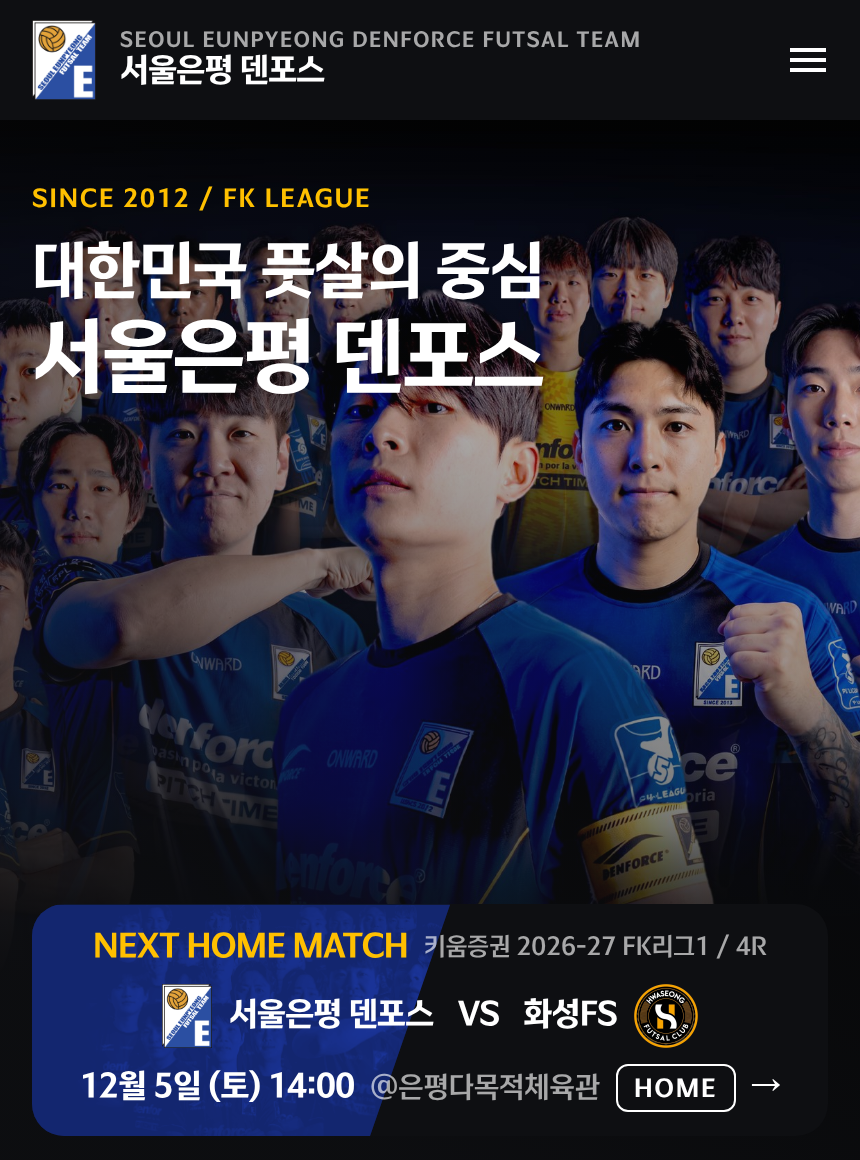
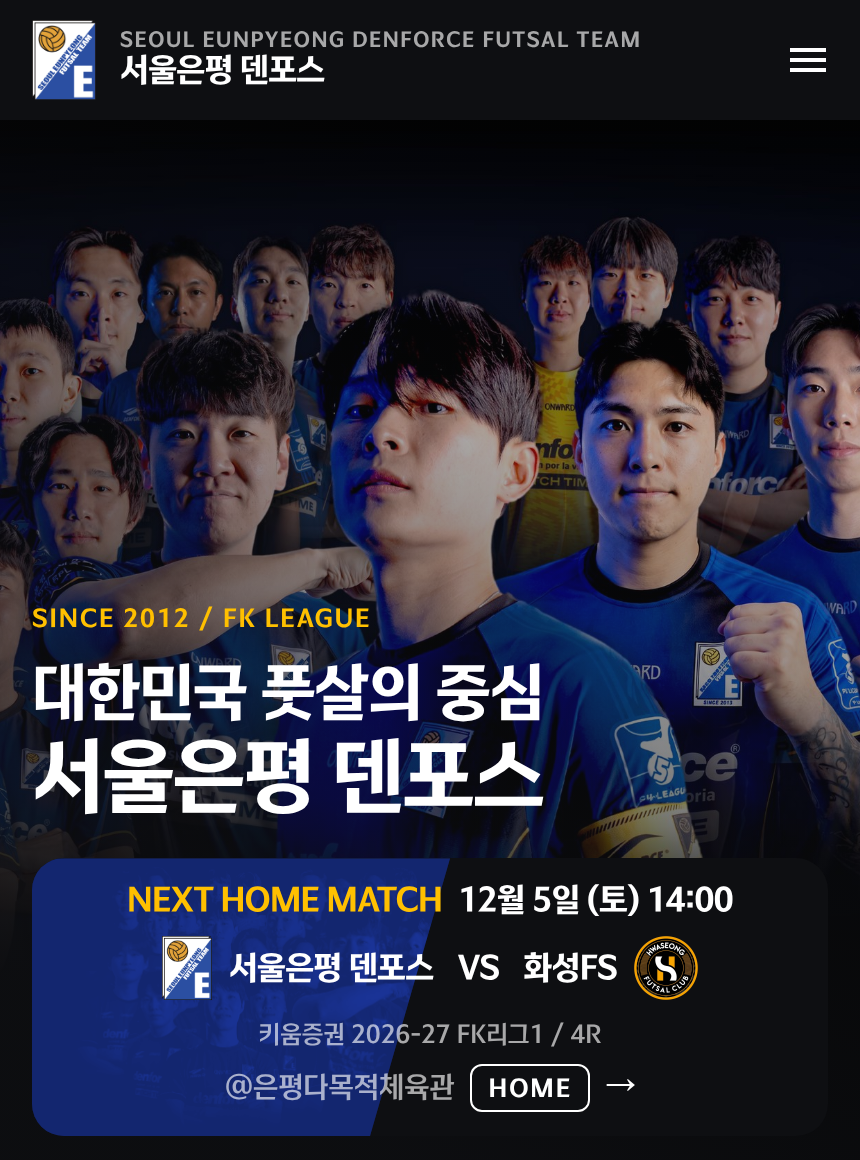
휴대폰 다음 홈경기 띠 줄 규칙(KFA고딕 기준): 줄1 라벨 + 날짜, 줄3 대회 + 장소 — 390 139 / 문구 위 302 (D-088, I-062)
Claude-Session: https://claude.ai/code/session_015na33bHmUEDGFhNLp3LnQp

Changed region(s): [[0.0302, 0.5276, 0.907, 0.9621], [0.0302, 0.1552, 0.6349, 0.3414]]

diff --git a/sites/eunpyeong-denforce/src/components/home/NextMatchHero.tsx b/sites/eunpyeong-denforce/src/components/home/NextMatchHero.tsx
@@ -84,7 +84,7 @@ function WideCard({ match, ourName, textured, style }: Props) {
 
 /**
  * 휴대폰 작은 띠 A 가운데 3줄 (D-088, 피그마 274:26717 / 274:26795 / 274:26873 / 274:26951) — 폭 화면 - 32.
- * [NEXT HOME MATCH + 대회] / [엠블럼 32 + 우리 이름, VS, 상대 이름 + 엠블럼] / [날짜 + @장소 + HOME + →].
+ * [NEXT HOME MATCH + 날짜] / [엠블럼 32 + 우리 이름, VS, 상대 이름 + 엠블럼] / [대회 + (@장소 + HOME + →)] — 줄 규칙은 KFA고딕 실측 기준(I-062, 디자인 f46f3d6).
  * 카드 전체가 /match/schedule 링크 하나. 읽기 프로그램에는 대진, 날짜, 장소를 담은 이름을 준다(→ 는 숨김).
  */
 function PhoneStrip({ match, ourName, textured, style }: Props) {
@@ -103,7 +103,9 @@ function PhoneStrip({ match, ourName, textured, style }: Props) {
       <Link href="/match/schedule" className={`${styles.card} ${styles.strip} ${textured ? styles.textured : ""}`} style={style} aria-label={name}>
         <span className={styles.stripRow}>
           <span className={styles.label}>NEXT HOME MATCH</span>
-          <CompetitionTag text={matchLabel(match)} surface="dark" />
+          <span className={styles.stripDate}>
+            {date} {time}
+          </span>
         </span>
         <span className={styles.stripTeams}>
           <span className={styles.stripTeam}>
@@ -117,9 +119,7 @@ function PhoneStrip({ match, ourName, textured, style }: Props) {
           </span>
         </span>
         <span className={styles.stripRow}>
-          <span className={styles.stripDate}>
-            {date} {time}
-          </span>
+          <CompetitionTag text={matchLabel(match)} surface="dark" />
           <span className={styles.venue}>
             {match.venue && <>@{match.venue}</>}
             <HomeAwayBadge isHome={match.isHome} surface="dark" />

diff --git a/sites/eunpyeong-denforce/src/components/home/NextMatchHero.module.css b/sites/eunpyeong-denforce/src/components/home/NextMatchHero.module.css
@@ -275,7 +275,7 @@
     text-decoration: none;
   }
 
-  /* 줄 1(라벨 + 대회), 줄 3(날짜 + 장소 덩어리) — 좁으면 덩어리째 다음 줄로 */
+  /* 줄 1(라벨 + 날짜), 줄 3(대회 + 장소 덩어리) — 좁으면 덩어리째 다음 줄로, 사이 space/2xs (I-062, 디자인 f46f3d6) */
   .stripRow {
     position: relative;
     display: flex;

diff --git a/sites/eunpyeong-denforce/docs/DECISION_LOG.md b/sites/eunpyeong-denforce/docs/DECISION_LOG.md
@@ -31,9 +31,9 @@
 
 ## D-088 | 2026-11-14 | 휴대폰 다음 홈경기 = 작은 띠 A 가운데 3줄, 카드 전체가 경기일정 링크, 버튼 없음
 - **상태**: 채택, 기능 브랜치(배포는 총괄) (소유자 "카드가 차지하는 면적이 너무 커서", 띠 A 선택 — 총괄 창에서 승인. 디자인 f945746, 섹션 274:26714, 프레임 360 274:26717 / 390 274:26795 / 430 274:26873 / 390 긴 이름 274:26951)
-- **결정**: 720 이하만. 721 이상(태블릿 456, PC)은 지금 카드와 버튼 그대로. 휴대폰은 PhoneStrip — 폭 화면 - 32, 안쪽 위아래 space/s 좌우 space/m, 줄 사이 space/xs. [NEXT HOME MATCH 16 Bold yellow + 대회 태그] / [엠블럼 32 + 우리 이름 16 Bold, VS, 상대 이름 + 엠블럼 32] / [날짜 16 Bold + (@장소 + HOME + →) 한 덩어리]. 줄 1, 줄 3은 좁으면 덩어리째 다음 줄(사이 space/2xs). 파랑 반쪽 +10 / -30 + (다) 질감 그대로. 카드 전체가 /match/schedule 링크 하나, 링크 이름은 '다음 홈경기 우리 대 상대, 날짜 시각, 장소 홈, 경기일정 보기', → 는 낭독 숨김. '오시는 길' / '경기일정' 버튼은 휴대폰에서 뺌(소유자 승인). D-087 의 휴대폰 margin-inline auto 는 띠로 대체.
-- **문구 내림**(소유자 제안 + ㄱㄱ, 디자인 be56ee2 277:26956 / 277:27007 / 277:27058 / 277:27109): 720 이하에서 눈썹 + 두 줄 제목을 띠 카드 바로 위로(사이 space/m 16, .inner justify-content flex-end). 문구 크기/줄 수/왼쪽 16/HeroTitle 폭 맞춤, 덮개는 그대로. 실측 문구 위 끝 360 279 / 390 279 / 430 325 / 390 긴 이름 273 (목표 280 / 303 / 326 / 297 — 390 두 개는 띠가 24 높아 같이 24 위, I-062).
-- **실측**(KFA고딕): 360 162 / 390 162 / 412 139 / 430 116 / 390 긴 이름 168, 히어로 아래 12, 넘침 0(320~720), 721 이상 456x368 그대로. 피그마 목표(360 161 / 390 138 / 430 115 / 긴 이름 144) 중 390 과 긴 이름은 +24 — 피그마 글자(Noto Sans KR 임시)보다 KFA고딕이 약 7% 넓어 390 에서 줄 1(라벨 157.6 + 대회 171.5 > 326)도 줄바꿈되기 때문(I-062).
+- **결정**: 720 이하만. 721 이상(태블릿 456, PC)은 지금 카드와 버튼 그대로. 휴대폰은 PhoneStrip — 폭 화면 - 32, 안쪽 위아래 space/s 좌우 space/m, 줄 사이 space/xs. [NEXT HOME MATCH 16 Bold yellow + 날짜 16 Bold] / [엠블럼 32 + 우리 이름 16 Bold, VS, 상대 이름 + 엠블럼 32] / [대회 태그 + (@장소 + HOME + →) 한 덩어리] (줄 규칙은 KFA고딕 실측 기준, 디자인 f46f3d6 — 처음 시안 순서는 390 에서 24 높아 바꿈, I-062). 줄 1, 줄 3은 좁으면 덩어리째 다음 줄(사이 space/2xs). 파랑 반쪽 +10 / -30 + (다) 질감 그대로. 카드 전체가 /match/schedule 링크 하나, 링크 이름은 '다음 홈경기 우리 대 상대, 날짜 시각, 장소 홈, 경기일정 보기', → 는 낭독 숨김. '오시는 길' / '경기일정' 버튼은 휴대폰에서 뺌(소유자 승인). D-087 의 휴대폰 margin-inline auto 는 띠로 대체.
+- **문구 내림**(소유자 제안 + ㄱㄱ, 디자인 be56ee2 / f46f3d6, 277:26956 / 277:27007 / 277:27058 / 277:27109): 720 이하에서 눈썹 + 두 줄 제목을 띠 카드 바로 위로(사이 space/m 16, .inner justify-content flex-end). 문구 크기/줄 수/왼쪽 16/HeroTitle 폭 맞춤, 덮개는 그대로.
+- **실측**(KFA고딕, 머리 60 포함): 카드 높이 / 문구 위 끝 — 360 162 / 279, 390 139 / 302, 412 139 / 302, 430 139 / 302, 390 긴 이름 145 / 296, 320 168 / 273, 480~720 116 / 325. 목표(360 약 162, 390 / 430 약 138, 긴 이름 약 145, 문구 303 / 297) 안. 카드 히어로 아래 12, 넘침 0(320~720), 721 이상 456x368 그대로. Tab 4번째, 초점 2px, Enter → /match/schedule.
 
 ## D-087 | 2026-11-14 | 넓은 휴대폰(391~720)에서 다음 홈경기 카드는 358 그대로 가운데
 - **상태**: 채택 (소유자 "가운데부터 일단 배포하고, 휴대폰 전용 카드 디자인 해보자") — 휴대폰 전용 카드 시안이 정해지면 그 결정으로 대체될 수 있음

diff --git a/sites/eunpyeong-denforce/docs/FIGMA_SYNC.md b/sites/eunpyeong-denforce/docs/FIGMA_SYNC.md
@@ -578,3 +578,4 @@
 - 2026-11-14 디자인: 휴대폰 카드 3안 섹션 271:26414 와 그 안 프레임에 '[보관: 선택 안 됨]'(소유자: 정렬이 아니라 카드 면적이 커서 단체 사진을 가림). 방향 A '작은 띠 카드' 시안 3안, 새 섹션 274:26714. 히어로 사진은 운영 단체 사진 hero-2627-squad-v3(Supabase 공개 media, 피그마 이미지 43dd7fa6…)로 바꿈(채움, 가운데). 버튼 없음, 카드 전체가 /match/schedule 링크, 화살표 → 는 눌림 표시(aria-hidden), 사이트의 '전체보기 →' 와 같은 글자 화살표. 공통: 라벨 kfa/m/h4 yellow, 이름/VS/날짜 kfa/m/h4, 대회 태그와 @장소 + HOME 은 기존 부품, 안쪽 여백 위아래 space/s 좌우 space/m, 줄 사이 space/xs, 줄바꿈 줄 사이 space/2xs, 긴 상대 이름은 낱말 경계(고양불스 / 풋살클럽)에서만 줄바꿈. 프레임 순서 360 / 390 / 430 / 390 긴 이름. 띠 A 가운데 3줄 274:26717 / 274:26795 / 274:26873 / 274:26951: 폭 화면 - 32, 가운데, [라벨 + 대회] / [엠블럼 32 + 이름, VS] / [날짜 + (@장소 + HOME + → 한 덩어리)], 파랑 반쪽 +10/-30 + (다) 질감(단체 사진), 아래 space/s. 높이 161 / 138 / 115 / 144, 사진 보이는 높이(히어로 520 중) 347 / 370 / 393 / 364. 띠 B 왼쪽 정렬 + 화살표 칸 274:27031 / 274:27106 / 274:27181 / 274:27256: 폭 화면 - 32, 내용 왼쪽 + 오른쪽 화살표 칸 24(kfa/m/h3 →, 세로 가운데), 평면 color/blue 바탕, 360 은 엠블럼 24. 높이 153 / 161 / 115 / 167(390 은 라벨과 대회, 날짜와 장소가 각각 두 줄로 나뉘어 목표 150 을 넘음). 띠 C 바닥 시트 274:27333 / 274:27411 / 274:27489 / 274:27567: 가로 전체, 히어로 아래 끝에 붙음, 위 두 모서리만 radius/l, 아래 여백 space/m, 가운데 [라벨 →] / [엠블럼 40 + 이름, VS] / [날짜 + 대회 + @장소 + HOME], 파랑 반쪽 + (다) 질감. 높이 모든 폭 150, 사진 보이는 높이 370. 누를 수 있는 높이는 모두 카드 전체(115 이상). 캡처 docs/figma-captures/phone-strip/(compare-390, compare-430, compare-390-long 에 안 이름, 안별 3장). 감사: 맨 색 0, 스타일 없는 글자 0, 가운뎃점 0.
 - 2026-11-14 기능: 휴대폰 다음 홈경기 작은 띠 A(D-088, 디자인 f945746) — PhoneStrip, 720 이하만, 카드 전체 /match/schedule 링크, 버튼 없음. 실측 360 162 / 390 162 / 430 116 / 긴 이름 168(390 은 KFA고딕 폭 때문에 +24, I-062). 721 이상 그대로. 22페이지 x 12폭 ALL CLEAN. 캡처 phone-strip/code-360/390/430.png.
 - 2026-11-14 기능: D-088 휴대폰 히어로 문구 내림(디자인 be56ee2) — 문구가 띠 카드 위 16, 문구 위 끝 360 279 / 390 279 / 430 325 / 긴 이름 273(390 은 I-062 만큼 위). 721 이상 그대로. 캡처 phone-strip/code-lowered-360/390/430.png.
+- 2026-11-14 기능: I-062 줄 규칙(디자인 f46f3d6) — 줄1 라벨 + 날짜, 줄3 대회 + 장소 덩어리. 실측 카드/문구 위 360 162/279, 390 139/302, 412 139/302, 430 139/302, 긴 이름 145/296. 캡처 phone-strip/code-*.png, code-lowered-*.png 다시 찍음.

diff --git a/sites/eunpyeong-denforce/docs/KNOWN_ISSUES.md b/sites/eunpyeong-denforce/docs/KNOWN_ISSUES.md
@@ -28,7 +28,7 @@
 <!-- 최신 항목을 위에 추가. 심각도 '높음'은 발견 즉시 소유자에게 별도 보고 -->
 
 ## I-062 | 2026-11-14 | 휴대폰 다음 홈경기 띠: 390 에서 줄 1이 두 줄이 되어 피그마보다 24 높음
-- **상태**: 열림 (디자인/총괄 판단 필요)
+- **상태**: 해결(2026-11-14, 디자인 f46f3d6 줄 규칙 = 줄1 라벨 + 날짜, 줄3 대회 + 장소 덩어리 → 390 139, 문구 위 302)
 - **심각도**: 낮음
 - **증상/내용**: D-088 띠가 390 에서 162(피그마 138), 390 긴 이름 168(피그마 144). 피그마 프레임 글자는 Noto Sans KR(원격 임시 글꼴), 사이트는 KFA고딕이라 같은 16 Bold 라벨이 147 → 157.6, 대회 태그 162 → 171.5 로 넓다. 합 337 이 안쪽 폭 326 을 넘어 줄 1(라벨 + 대회)이 두 줄이 된다. 412 이상은 피그마와 같은 줄 수. 문구 내림(D-088)도 같이 영향 — 390 문구 위 끝 279(피그마 303), 긴 이름 273(297).
 - **해결 방향**: 디자인 세션이 KFA 글꼴로 프레임을 다시 재거나(같은 결과면 그대로 받아들임), 대회 태그 글을 휴대폰에서 줄이는 등 시안 값을 정해 주면 그대로 반영. 코드에서 임의로 글자 크기/간격을 바꾸지 않았다.
